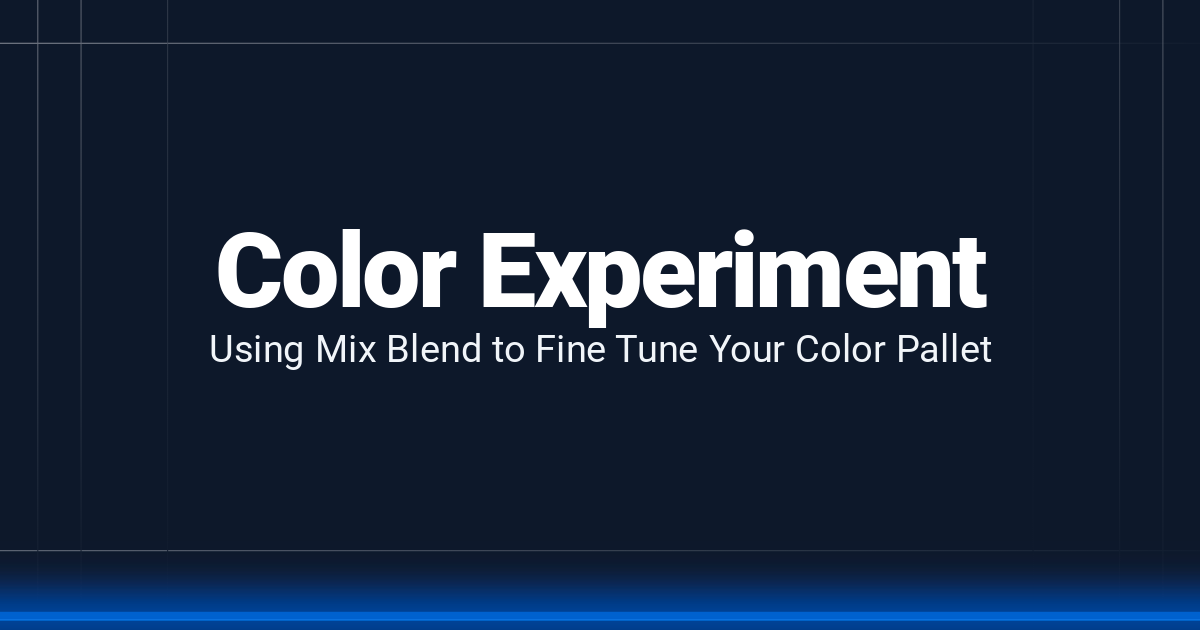
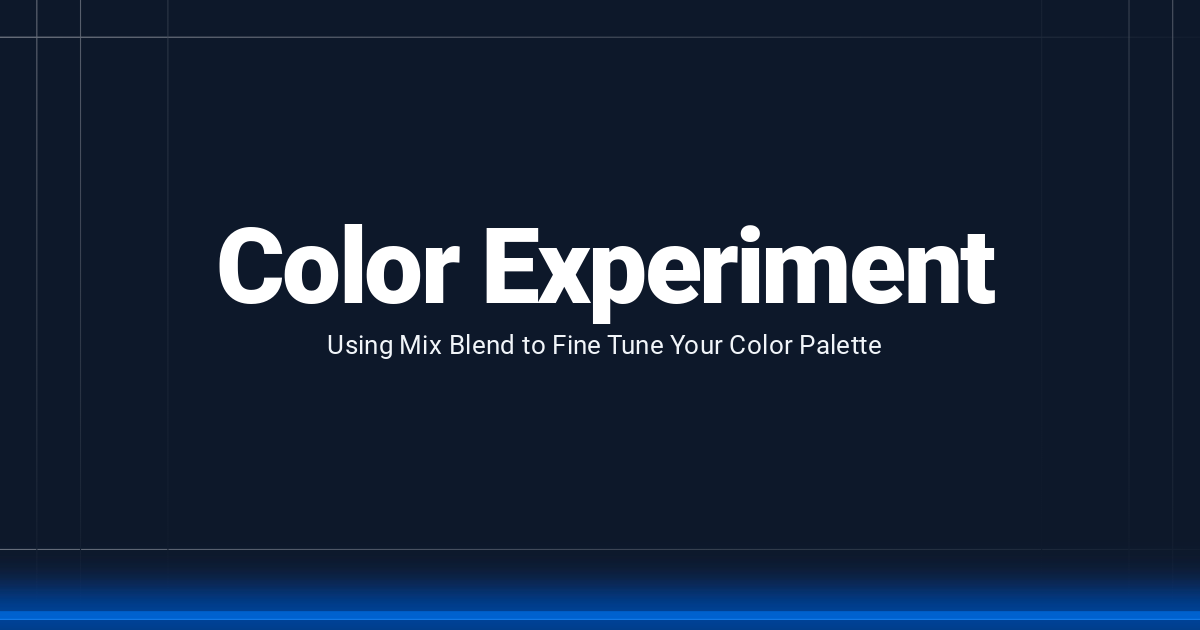
palette

diff --git a/src/routes/tutorials/html-to-image.svelte b/src/routes/tutorials/html-to-image.svelte
@@ -7,7 +7,7 @@
 	let src, image;
 	let title = 'Color Experiment';
 	let name = 'Svelte Board';
-	let subtitle = 'Using Mix Blend to Fine Tune Your Color Pallet';
+	let subtitle = 'Using Mix Blend to Fine Tune Your Color Palette';
 	let url = 'https://svelteboard.com/tutorials/open-graph';
 	let description = 'REPL';
 	let type = 'Article';
